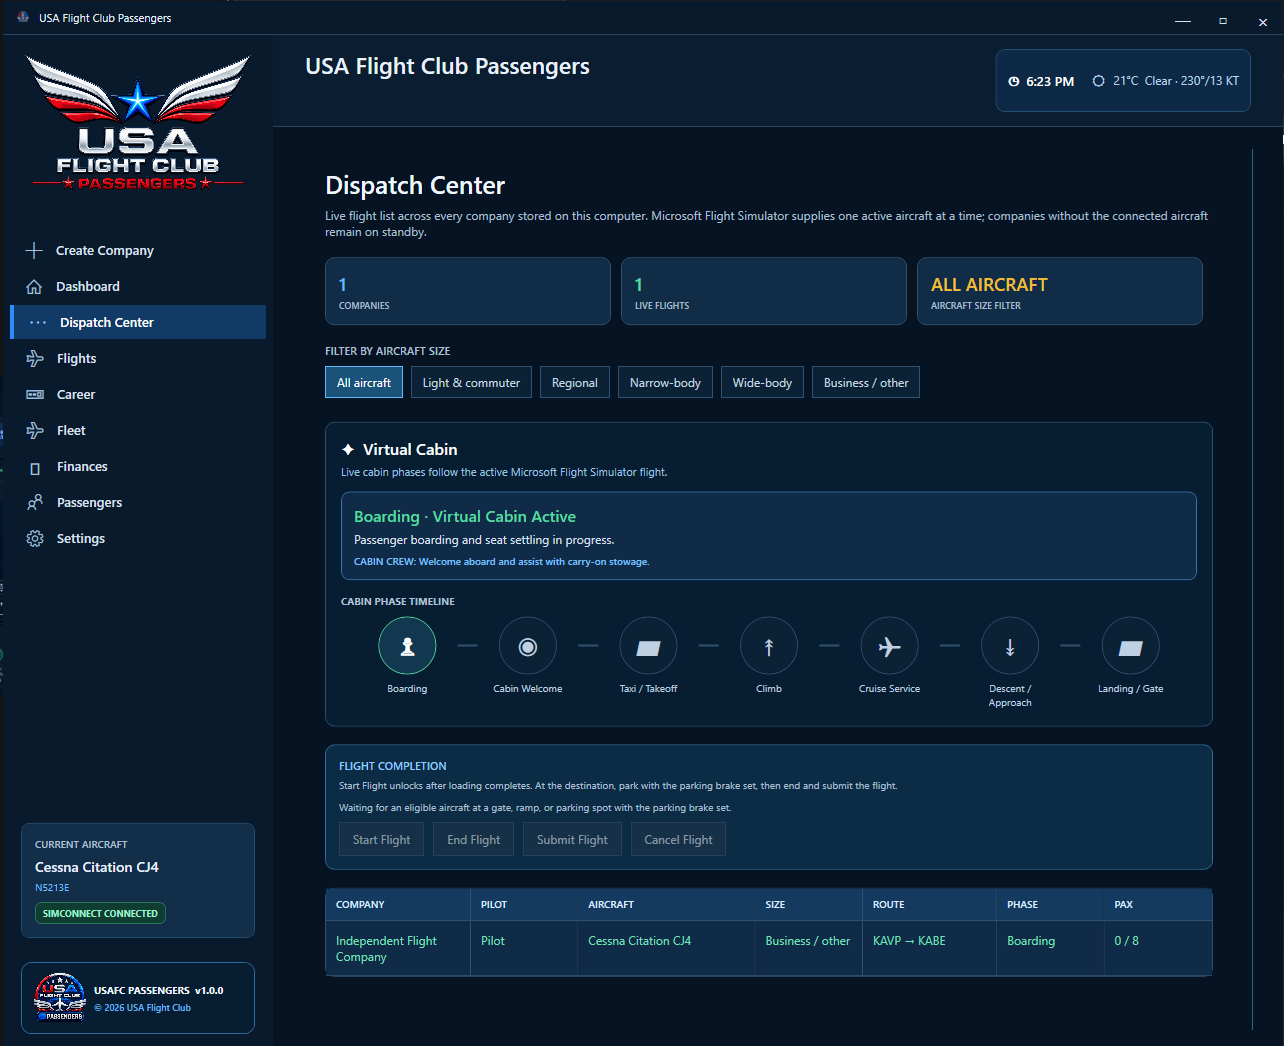
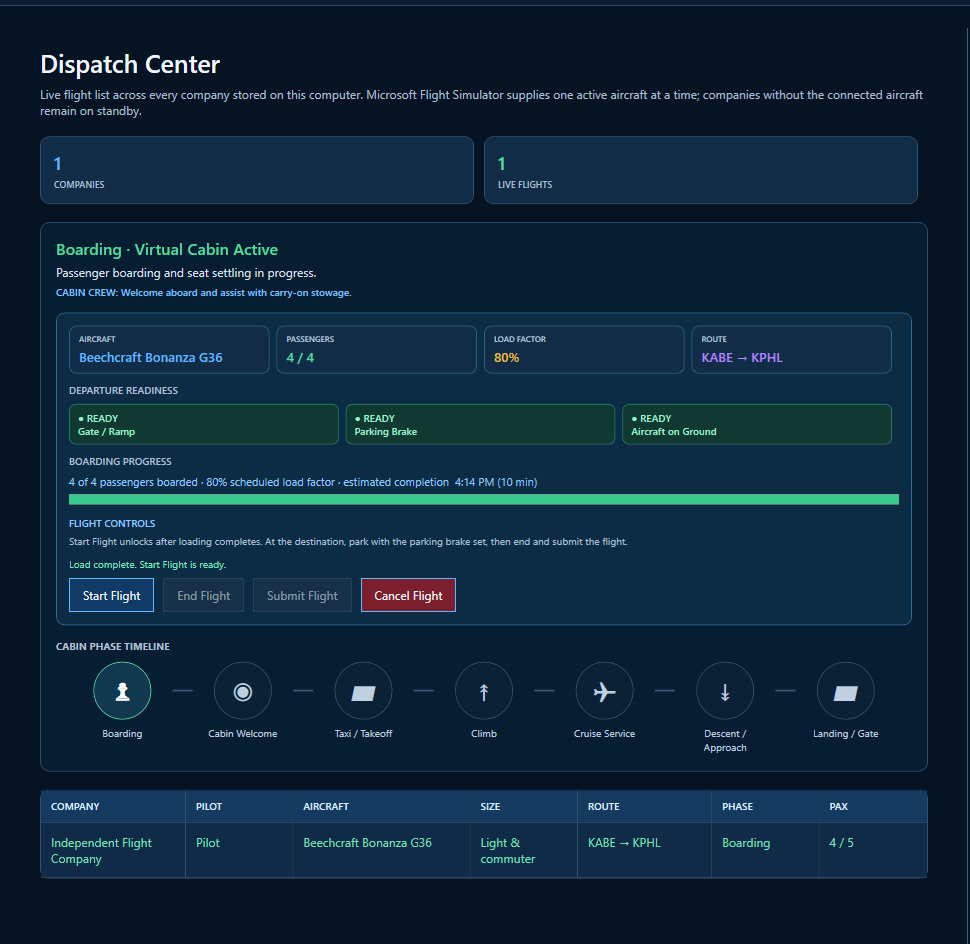
Update release preview and feature documentation

diff --git a/README.md b/README.md
@@ -21,13 +21,21 @@ The screenshots below show the current product direction. Visual details may cha
 | ![Passengers](assets/readme/Passengers.png) | ![Boarding](assets/readme/Boarding.png) |
 | **Passenger Manifest** | **Boarding Operations** |
 | ![Dispatch Center](assets/readme/dispatch%20Center.png) | ![Fleet](assets/readme/fleet.png) |
-| **Dispatch Center** | **Fleet Management** |
+| **Dispatch Center · Virtual Cabin, boarding readiness, and flight controls** | **Fleet Management** |
 | ![Career](assets/readme/Career.png) | ![Achievements](assets/readme/Achievements.png) |
 | **Pilot Career** | **Achievements** |
 | ![Finances](assets/readme/Finances.png) | ![Transactions](assets/readme/Transactions.png) |
 | **Finances** | **Transaction History** |
 | ![Settings](assets/readme/Settings.png) | |
 | **Settings** | |
+
+## Current application capabilities
+
+- **Dispatch Virtual Cabin** — one live place for boarding readiness, passenger load progress, Flight Controls, cabin phase, and the active company flight list.
+- **Performance-based passenger scoring** — passenger experience is assessed across each phase using taxi handling, vertical rates, weather/turbulence, MSFS stall and overspeed warnings, go-arounds, landing quality, fuel reserve, and cabin service.
+- **Persistent aircraft condition** — locally tracked airframe and engine hours, cycles, tires, brakes, oil condition, inspections, defects, maintenance requirements, and maintenance costs.
+- **Flight Review and replay** — completed flights retain phase scorecards, timestamped operational events, a score breakdown, and a saved map replay in Flight History.
+- **Local-first data** — companies, pilots, finances, achievements, active flights, Flight Reviews, and backups stay on the user's computer.
 
 ## About this repository
 
